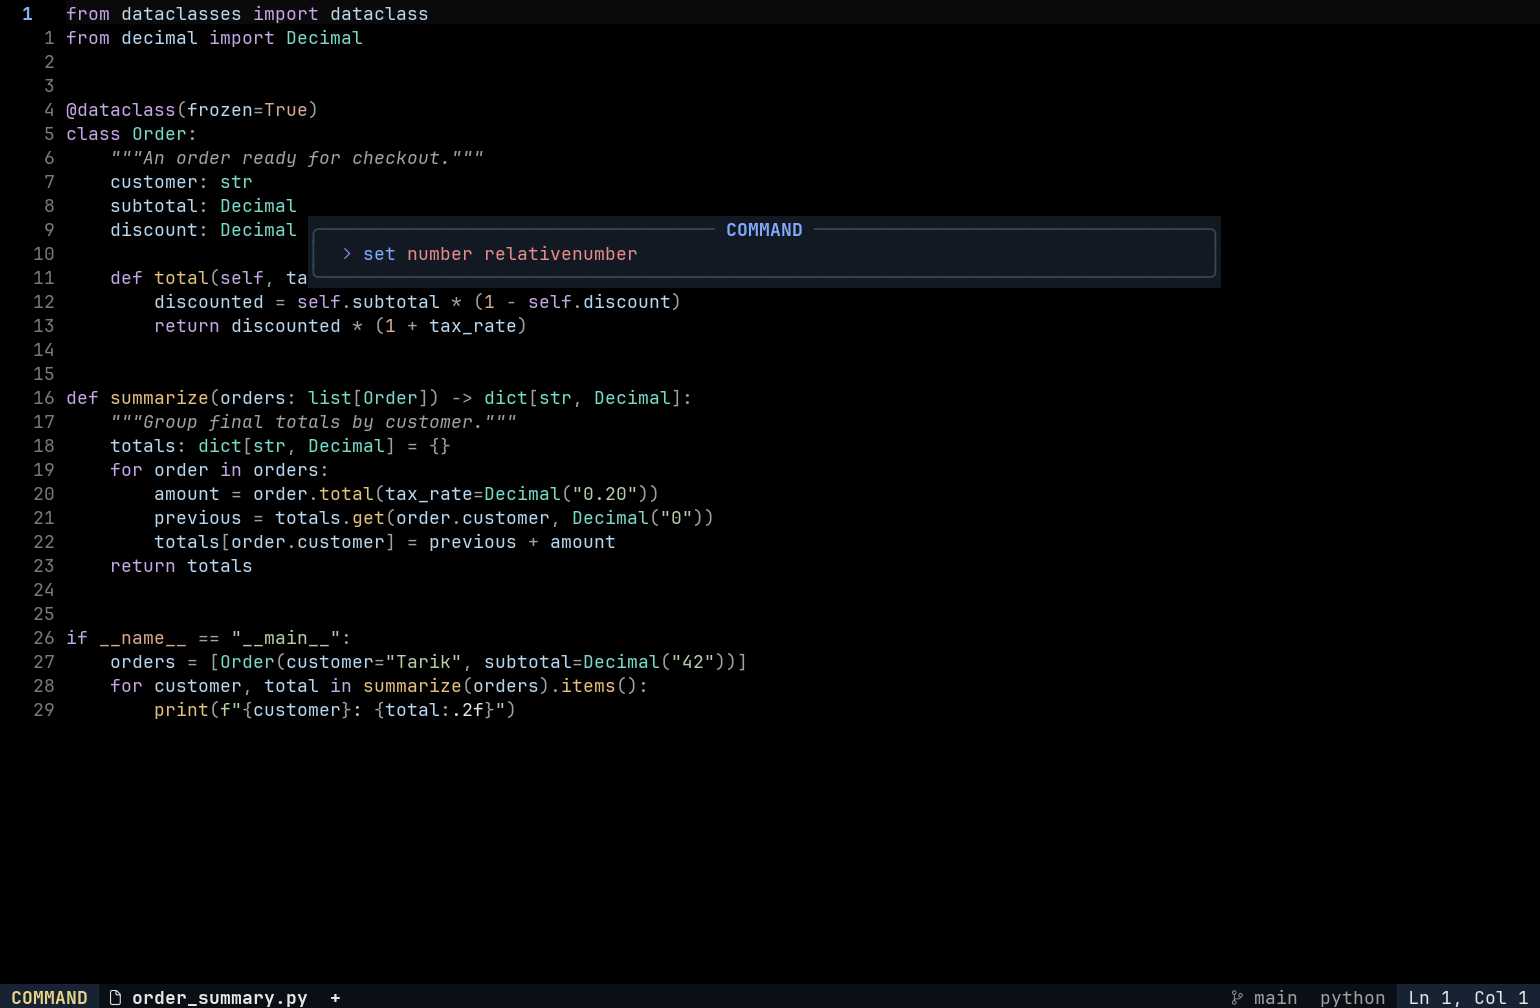
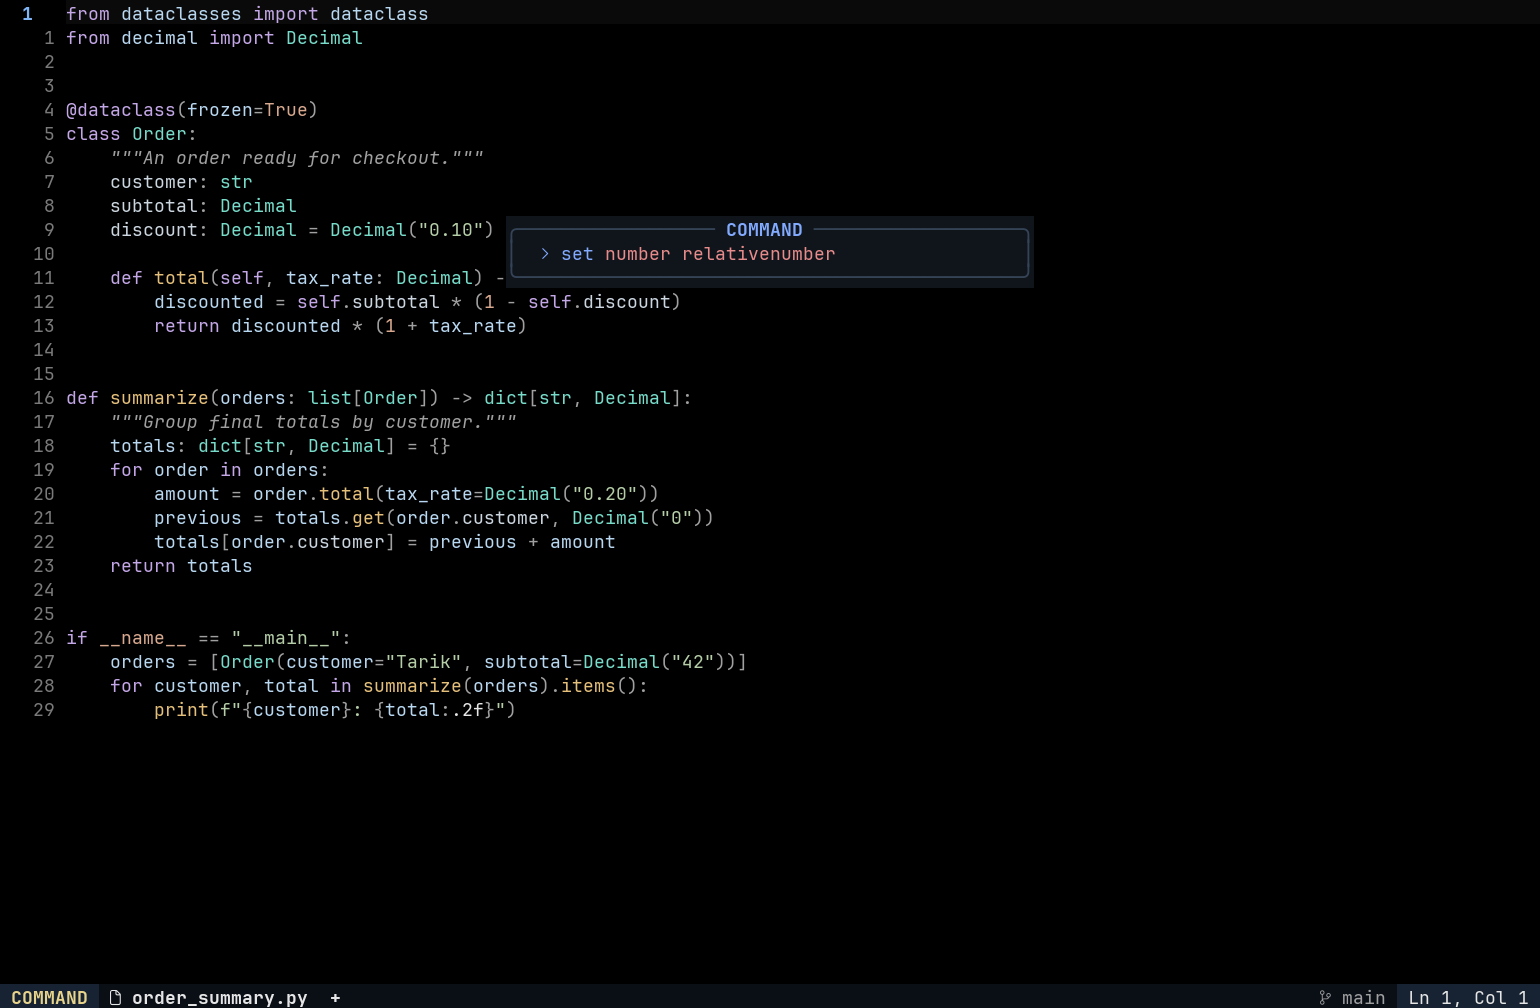
Unify editor surfaces and simplify search, completion and status information

Changed region(s): [[0.187, 0.2153, 0.5299, 0.3075], [0.6545, 0.2153, 0.8104, 0.3075], [0.8104, 0.9841, 0.9039, 1.0]]

diff --git a/nvim/DESIGN.md b/nvim/DESIGN.md
@@ -1,11 +1,11 @@
-# Perfect Black — Edition 02
+# Perfect Black — Edition 03
 
 ## Direction
 
 A pure-black editor with readable syntax, cool blue interaction surfaces, and
 clear emphasis. The previous all-italic, mostly gray design made controls hard
-to distinguish. This edition changes typography, Python syntax, documentation,
-commands, icons, and the statusline as one system.
+to distinguish. Edition 03 unifies interactive panels through `lua/config/surfaces.lua` and
+removes repeated information from completion, search, and the statusline.
 
 ## Palette
 
@@ -16,11 +16,11 @@ commands, icons, and the statusline as one system.
 | Secondary text | `#A0A0A0` | Paths and supporting details |
 | Comments | `#7A7A7A` | Quiet, italic annotations |
 | Interaction accent | `#82AAFF` | Selection, prompts, headings, matches |
-| Documentation fill | `#10151C` | Separate reference material from code |
-| Command fill | `#121923` | A recognizable command surface |
+| Shared panel fill | `#10151C` | Commands, search, docs, and notifications |
+| Inset fill | `#0A0F16` | Preview, sidebar, and statusline |
 | Popup edge | `#354357` | Delimit text panels over dense code |
 | Selected completion | `#243B59` | Obvious keyboard selection |
-| Picker selection | `#162439` | Tie search to the interaction accent |
+| Picker selection | `#243B59` | Match completion and tree selection |
 | Statusline | `#0A0F16` | A quiet continuous base |
 | Statusline end blocks | `#172333` | Group mode and cursor position |
 
@@ -28,7 +28,8 @@ Python receives its own syntax overrides:
 
 | Token | Color |
 | --- | --- |
-| Variables, parameters, members | `#B8D7F0` |
+| Variables and parameters | `#B8D7F0` |
+| Members and properties | `#CCD6E0` |
 | Keywords, decorators, built-in variable references | `#C4A7E7` |
 | Functions and methods | `#E5C07B` |
 | Types and constructors | `#78DCCA` |
@@ -49,8 +50,9 @@ Alacritty select all four real faces. The installer verifies all four files.
 Neovim cannot change a terminal emulator's font itself.
 
 Completion uses one Codicon family for symbol kinds, alongside readable kind
-and source labels. Project files use recognizable filetype glyphs; Python and
-Lua have restrained yellow/blue accents. Directory names remain neutral.
+labels. Code files, documents, shell scripts, folders, and dashboard actions
+use related outline glyphs. Configured file icons share a muted foreground;
+third-party file types can retain their plugin defaults.
 Dashboard actions use matching outline icons. The statusline avoids repeating
 a language icon beside an already visible file name.
 
@@ -59,15 +61,17 @@ a language icon beside an already visible file name.
 ### Bottom status bar
 
 Mode and file are on the left. Diagnostics follow the filename. Git branch,
-change counts, and filetype appear on the right when space allows. The final
-block explicitly labels line and column. The modified marker is `+` and a
+and change counts appear on the right when space allows. The redundant
+filetype label is removed. The final
+block explicitly labels line and column, shortening to `line:column` in
+narrow terminals. The modified marker is `+` and a
 recording indicator appears while recording a macro. Mode color stays in the
 mode block; the cursor-position block remains neutral. Branch/change counts
 hide before they crowd small terminals.
 
 ### Completion and documentation
 
-The menu orders information as kind icon, completion text, then kind/source.
+The menu orders information as kind icon, completion text, then a short kind label. Source names are omitted.
 Labels longer than 38 cells are shortened for display; insertion text is
 unmodified. Selected items have a stronger blue fill.
 
@@ -81,7 +85,7 @@ unlabelled to avoid crowding. Documentation still opens only on request.
 ### Command palette and hover
 
 Commands have explicit COMMAND, LUA, SEARCH, HELP, or SHELL labels, a restrained
-outline, horizontal padding, and a 55% width capped at 78 columns. Noice's command
+outline, horizontal padding, and a content-sized input between 42 and 72 columns. Noice's command
 palette preset aligns command completion beneath the input. Hover shares the
 documentation palette and wraps prose.
 
@@ -94,14 +98,18 @@ borders; radius and font rendering depend on the terminal.
 Quick pickers are compact; grep and references have a preview. Height follows
 result count within the viewport cap. Ctrl-P toggles preview. Narrow layouts
 stack it below results; wide inspection uses a side-by-side preview. File names
-come first, with muted directories. Search retains filled padding without an
-outline. Neo-tree is 28 columns and closes after opening a file below 110 columns.
+come first, with muted directories. Search shares the documentation panel fill, outline, heading style, and
+selection color. Its footer keeps preview/close shortcuts visible. When a
+grep preview is open, rows show file locations and the preview shows code;
+when hidden, rows retain matching code so narrow layouts stay informative. Neo-tree is 28 columns and closes after opening a file below 110 columns.
 
 ### Workspace
 
 The 1337 wordmark and two panes appear at 100×30 or larger. Small terminals show
 compact actions and recent files. Recents are scoped to the working directory.
-The launch screen disappears when editing begins.
+The two section headings align, actions share key badges, and recent filenames
+include their immediate parent directory. The launch screen disappears when
+editing begins.
 
 ### Feedback
 

diff --git a/nvim/README.md b/nvim/README.md
@@ -1,7 +1,7 @@
 # Perfect Black Neovim
 
 Pure black code, clearer Python syntax, a useful documentation panel, and a
-composed status bar. Built on LazyVim with **ty + Ruff** for Python.
+composed status bar. Panels share one palette and consistent outlines. Built on LazyVim with **ty + Ruff** for Python.
 
 ## Editing
 
@@ -14,7 +14,7 @@ are light blue, functions warm gold, types teal, and keywords lavender.
 
 ![Completion and documentation panel](assets/documentation.png)
 
-A distinct reference surface, symbol icons, readable kind labels, and visible
+A distinct reference surface, consistent symbol icons, short kind labels, and visible
 keyboard hints. This actual Neovim capture uses a deterministic demo completion
 source, not a live ty response.
 
@@ -22,13 +22,17 @@ source, not a live ty response.
 
 ![Command palette](assets/command.png)
 
-Explicit operation labels, consistent padding, and a subtle outline over code.
+Explicit operation labels, content-sized width, and the same outline as search
+and documentation.
 
 ## Workspace and search
 
 ![1337 workspace](assets/workspace.png)
 
 ![Adaptive project search](assets/perfect-black.png)
+
+File locations occupy the result list while code stays in the preview. Toggle
+the preview off and matching code returns to the rows.
 
 All images are actual Neovim UI-grid captures rendered with the configured font
 faces. Python examples are unsaved demonstration buffers.
